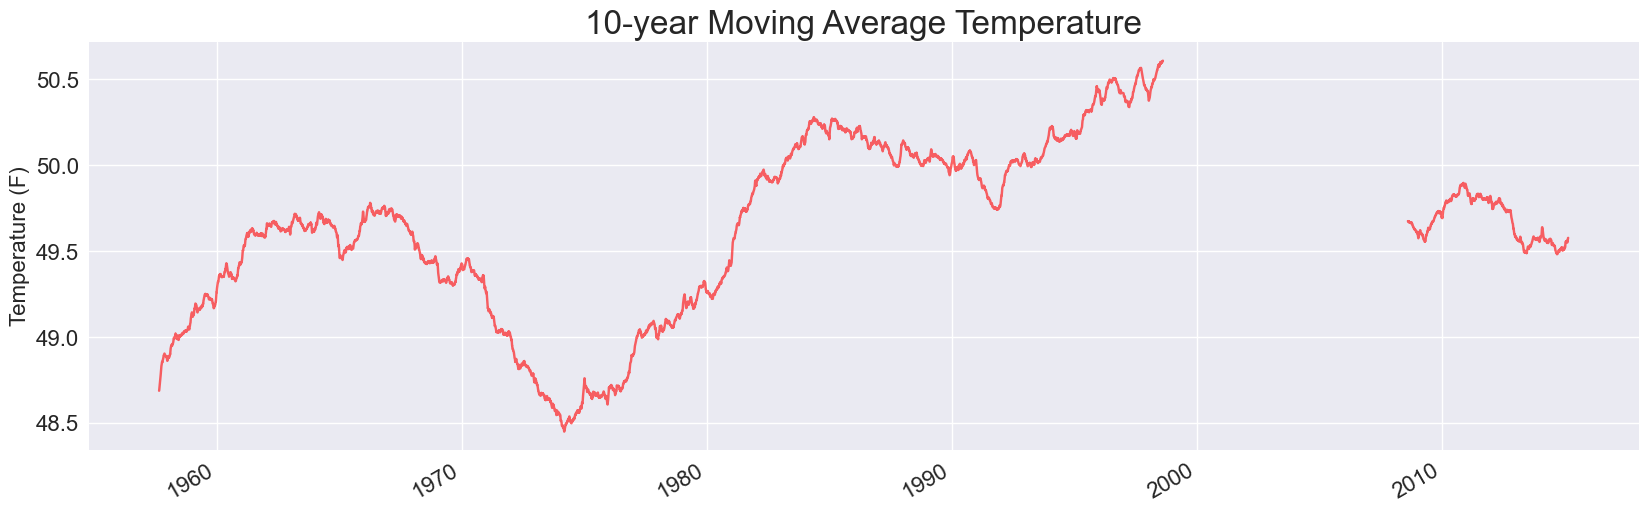
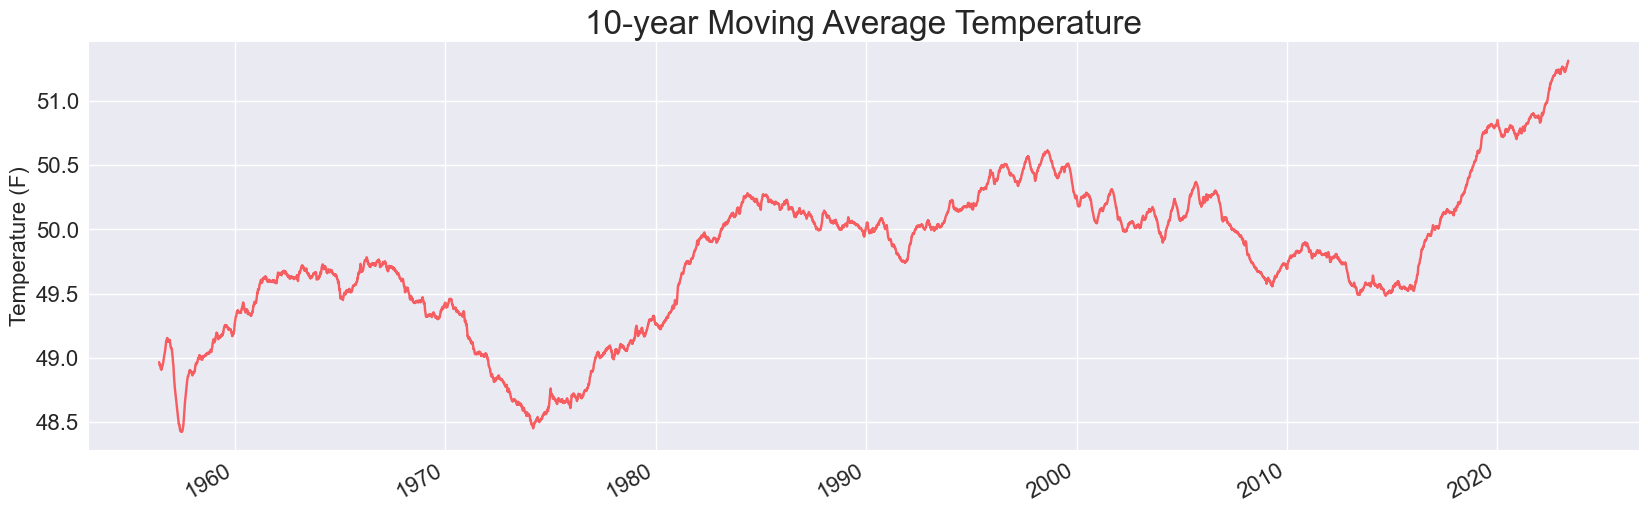
Include script dropping invalid data.

diff --git a/mp33_using_pandas/high_temp_trends_all_drop_nan.py b/mp33_using_pandas/high_temp_trends_all_drop_nan.py
@@ -1,0 +1,47 @@
+from pathlib import Path
+
+import pandas as pd
+import matplotlib.pyplot as plt
+
+def get_data(path):
+    """Extract dates and high temperatures."""
+    df = pd.read_csv(path)
+    df['DATE'] = pd.to_datetime(df['DATE'])
+
+    df.dropna(inplace=True)
+    
+    return df['DATE'], df['TMAX']
+
+def plot_data(dates, temps, title="",
+        filename="output/high_temps.png"):
+    """Plot daily temperature data."""
+    plt.style.use('seaborn-v0_8')
+    fig, ax = plt.subplots(figsize=(20, 6))
+
+    ax.plot(dates, temps, color='red', alpha=0.6)
+
+    # Format plot.
+    ax.set_title(title, fontsize=24)
+    ax.set_xlabel('', fontsize=16)
+    fig.autofmt_xdate()
+    ax.set_ylabel("Temperature (F)", fontsize=16)
+    ax.tick_params(labelsize=16)
+
+    plt.savefig(filename, bbox_inches="tight")
+
+# Extract data.
+path = Path('wx_data/sitka_highs_1944_2023.csv')
+dates, highs = get_data(path)
+print(f"\nFound {len(highs):,} data points.")
+
+for num_years in [1, 3, 5, 10, 30]:
+    timespan = num_years * 365
+    avgs = highs.rolling(timespan).mean()
+
+    # Plot the data.
+    title = f"{int(timespan/365)}-year Moving Average Temperature"
+
+    filename = f"output/high_temps_{num_years}_year_moving_average.png"
+    plot_data(dates, avgs, title, filename=filename)
+
+    print(f"  Generated plot: {filename}")
